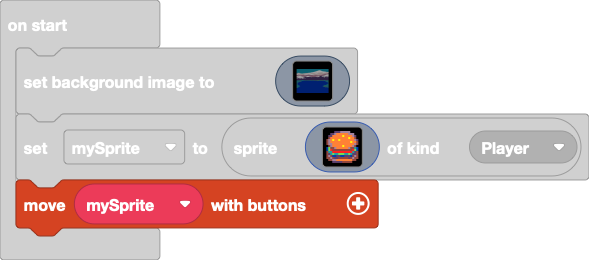
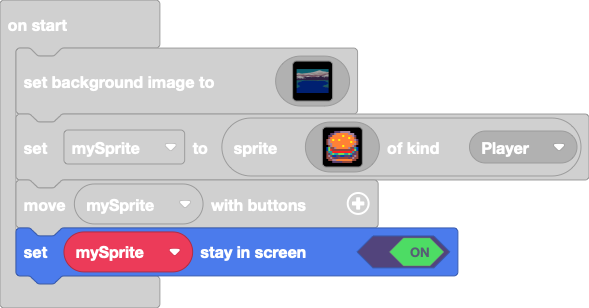
Added boundary protection

diff --git a/main.ts b/main.ts
@@ -139,3 +139,4 @@ let mySprite = sprites.create(img`
     . . . c c c c c e e e e e . . . 
     `, SpriteKind.Player)
 controller.moveSprite(mySprite)
+mySprite.setStayInScreen(true)
